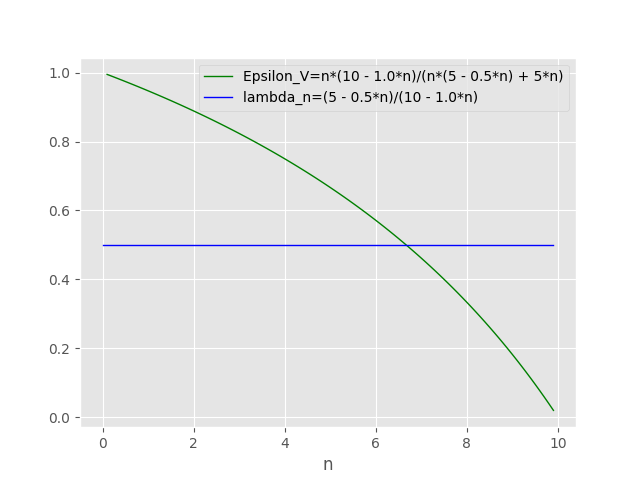
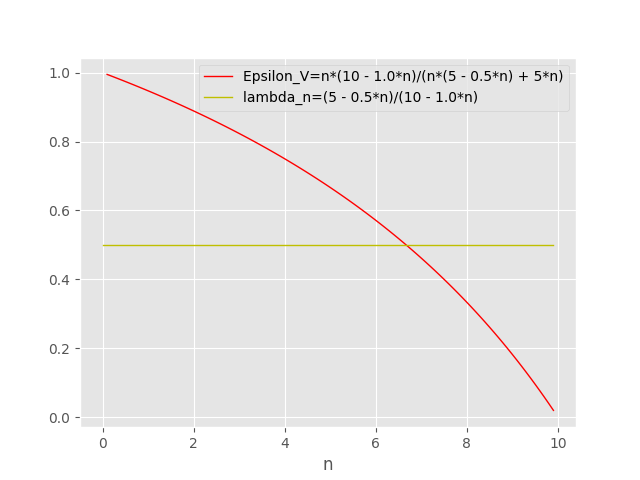
add visulation

diff --git a/two_side.py b/two_side.py
@@ -18,11 +18,11 @@ class BasisParameter(object):
     define several parameter
     '''
 
-    def __init__(self,n, cfg2,path):
+    def __init__(self, cfg2,path):
         '''
         path--save the image
         '''
-        self.n = n
+
         self.cfg = cfg2
         self.path = path
         #print(self.cfg)
@@ -32,50 +32,24 @@ class BasisParameter(object):
         define the inflection point n=10
 
         '''
-
-        if (self.n > self.cfg.INFLECTION_POINT):
-            u = self.cfg.A + self.cfg.B * self.cfg.INFLECTION_POINT
-        else:
-            u = self.cfg.A + self.cfg.B * self.n
-
-
+        n = symbols('n')
+        u = self.cfg.A + self.cfg.B * n
         #self.epsilon = theta *self.f/self.F
         return u
+
     def consumer_theta(self):
 
         theta = symbols("theta")
         F = 1/(1 + exp(-(theta-5)))
         f = diff(F, theta)
         Epsilon_F = theta*f/F
-        print(type(F))
-
-        ## show the plot
-        theta =[]
-        F_value =[]
-        f_value = []
-        Epsilon_F_value = []
-        for i in np.arange(0,10,0.1):
-            theta.append(i)
-            F_value.append(float(F.subs('theta',i)))
-            f_value.append(float(f.subs('theta', i)))
-            Epsilon_F_value.append(float(Epsilon_F.subs('theta',i)))
-
-        plt.plot(theta, F_value, "r-", linewidth=1, label='F='+str(F))  # 画图
-        plt.plot(theta, f_value, "y-", linewidth=1, label='f='+str(f))  # 画图
-        plt.plot(theta, Epsilon_F_value, "g-", linewidth=1, label='Epsilon_F='+str(Epsilon_F))  # 画图
-        plt.legend()
-        plt.xlabel('theta')
-        plt.savefig(self.path+'consumer_theta.png')
-        plt.show()
 
         #calculate the value
         F_onevalue = float(F.subs('theta', self.cfg.THETA))
         f_onevalue = float(f.subs('theta', self.cfg.THETA))
         Epsilon_F_onevalue = self.cfg.THETA*f_onevalue/F_onevalue
         #print(F_onevalue)
-        print('coustomer_theta F=',F)
-        print('coustomer_theta f=', f)
-        print('coustomer_theta Epsilon_F=', Epsilon_F)
+
         return F,f,Epsilon_F, F_onevalue, f_onevalue, Epsilon_F_onevalue
 
     def producer(self):
@@ -83,11 +57,10 @@ class BasisParameter(object):
         self.p = the profit per platform consumer net of variable costs
 
         '''
-        if (self.n >self.cfg.INFLECTION_POINT):
-            p = self.cfg.C - self.cfg.D * self.cfg.INFLECTION_POINT
-        else:
-            p = self.cfg.C - self.cfg.D * self.n
+        n = symbols('n')
+        p = self.cfg.C - self.cfg.D * n
         return p
+
     def producer_phi(self):
 
         phi = symbols("phi")
@@ -95,83 +68,27 @@ class BasisParameter(object):
         h = diff(H, phi)
         Epsilon_H = phi*h/H
 
-        ## show the plot
-        phi =[]
-        H_value =[]
-        h_value = []
-        Epsilon_H_value = []
-        for i in np.arange(0,10,0.1):
-            phi.append(i)
-            H_value.append(float(H.subs('phi',i)))
-            h_value.append(float(h.subs('phi', i)))
-            Epsilon_H_value.append(float(Epsilon_H.subs('phi',i)))
-
-        plt.plot(phi, H_value, "r-", linewidth=1, label='H='+str(H))  # 画图
-        plt.plot(phi, h_value, "y-", linewidth=1, label='h='+str(h))  # 画图
-        plt.plot(phi, Epsilon_H_value, "g-", linewidth=1, label='Epsilon_H='+str(Epsilon_H))  # 画图
-        plt.legend()
-        plt.xlabel('phi')
-        plt.savefig(self.path+'producer_phi.png')
-        plt.show()
-
         #calculate the value
         H_onevalue = float(H.subs('phi', self.cfg.PHI))
         h_onevalue = float(h.subs('phi', self.cfg.PHI))
         Epsilon_H_onevalue = self.cfg.PHI*h_onevalue/H_onevalue
         #print(F_onevalue)
-        print('producer_phi H=', H)
-        print('producer_phi h=', h)
-        print('producer_phi Epsilon_H=', Epsilon_H)
+
         return H,h,Epsilon_H, H_onevalue, h_onevalue, Epsilon_H_onevalue
 
     def profit(self,u,p):
         '''
         self.V = denote the gross surplus created by n products for each platform consumer
         '''
-        V = u + p * self.n
+        n = symbols('n')
+        V = u + p *n
         return V
-    def profit_Epsilon(self):
+    def profit_Epsilon(self,p,V):
 
         n = symbols("n")
-        u = self.cfg.A + self.cfg.B * n
-        p = self.cfg.C - self.cfg.D *n
-        V = u + p*n ## n<=10
         v = diff(V, n)
-        print('p(n)= ', p)
-        print('u(n)= ', u)
-        print('V(n)= ', V)
-        print('v(n)= ', v)
-
         Epsilon_V = n * v / V
         lambda_n = p /v
-        print('profit_Epsilon Epsilon_V=',Epsilon_V)
-        print('profit_Epsilon lambda_n=', lambda_n)
-
-        ## show the plot
-        n = []
-        V_value = []
-        v_value = []
-        Epsilon_V_value = []
-        lambda_n_value =[]
-        for i in np.arange(0, 10, 0.1):
-            n.append(i)
-            V_value.append(float(V.subs('n', i)))
-            v_value.append(float(v.subs('n', i)))
-            Epsilon_V_value.append(float(Epsilon_V.subs('n', i)))
-            lambda_n_value.append(float(lambda_n.subs('n',i)))
-
-        plt.plot(n, V_value, "r-", linewidth=1, label='V ='+str(V))
-        plt.plot(n, v_value, "y-", linewidth=1, label='v='+str(v))
-        plt.legend()
-        plt.xlabel('n')
-        plt.savefig(self.path+'profit_V.png')
-        plt.show()
-        plt.plot(n, Epsilon_V_value, "g-", linewidth=1, label='Epsilon_V='+str(Epsilon_V))
-        plt.plot(n, lambda_n_value, "b-", linewidth=1, label='lambda_n='+str(lambda_n))
-        plt.xlabel('n')
-        plt.legend()
-        plt.savefig(self.path + 'Epsilon_V+lambda_n.png')
-        plt.show()
 
         # calculate the value
         V_onevalue = float(V.subs('n', self.cfg.N))
@@ -179,7 +96,7 @@ class BasisParameter(object):
         Epsilon_V_onevalue = self.cfg.PHI * v_onevalue / V_onevalue
         lambda_n_onevalue = float(lambda_n.subs('n',self.cfg.N))
         # print(F_onevalue)
-        return u,p,V,v, lambda_n,Epsilon_V, V_onevalue, v_onevalue, Epsilon_V_onevalue,lambda_n_onevalue
+        return v, lambda_n,Epsilon_V, V_onevalue, v_onevalue, Epsilon_V_onevalue,lambda_n_onevalue
 
     def platform_profit(self,F):
         n, theta= symbols("n theta")
@@ -188,9 +105,6 @@ class BasisParameter(object):
         plat_profit_dif_n = diff(plat_profit,n)
         plat_profit_dif_theta = diff(plat_profit,theta)
 
-        print('plat_profit = ',plat_profit)
-        print('plat_profit_dif_n =',plat_profit_dif_n)
-        print('plat_profit_dif_theta=',plat_profit_dif_theta)
         theta = []
         n=[]
 
@@ -221,21 +135,7 @@ class BasisParameter(object):
         producer_profit_to_constumer_profit = Epsilon_V*(1+Epsilon_F)*(1-(1-lambda_n)*(1+Epsilon_H))/ \
                                               (1+Epsilon_H)*(1-lambda_n*Epsilon_V*(1+Epsilon_F))
 
-
-        print(type(producer_profit_to_constumer_profit))
-
-        print(producer_profit_to_constumer_profit)
         return(producer_profit_to_constumer_profit)
-
-    def calculate(self,producer_profit_to_constomer_profit):
-
-        n=10
-        phi=5
-        theta=5
-
-
-
-
 
     def platform_profit_show_in3D(self):
         '''
@@ -265,10 +165,6 @@ class BasisParameter(object):
         lambda_max = 1/Eplison_V * (1 + Epsilon_F)
         lambda_min = Epsilon_H / (1 + Epsilon_H)
 
-        lambda_max_value = []
-        lambda_min_value = []
-        print('lambda_min=', lambda_min)
-        print('lambda_max =',lambda_max)
         '''
         theta = []
         phi=[]
@@ -289,14 +185,45 @@ class BasisParameter(object):
         plt.savefig(self.path + 'platform_lambda.png')
         plt.show()
         '''
+        return lambda_min,lambda_max
 
+    def visulation(self,args,x1,x2,x3):
 
+        x1_value = []
+        x2_value = []
+        x3_value = []
+        x_value= []
+        for i in np.arange(0, 10, 0.1):
+            x_value.append(i)
+            x1_value.append(float(x1.subs(args[0], i)))
+            x2_value.append(float(x2.subs(args[0], i)))
+            x3_value.append(float(x3.subs(args[0], i)))
 
-
-    def visualisieren(self,n,p):
-        print('#######')
         plt.figure()
-        plt.plot(n, p)
+        plt.plot(x_value, x1_value, "r-", linewidth=1, label=args[1]+'='+str(x1))  # 画图
+        plt.plot(x_value, x2_value, "y-", linewidth=1, label=args[2]+'='+str(x2))  # 画图
+        plt.plot(x_value, x3_value, "g-", linewidth=1, label=args[3]+'='+str(x3))  # 画图
+        plt.legend()
+        plt.xlabel(args[0])
+        plt.savefig(self.path + args[4])
+        plt.show()
+
+    def visulation2(self,args,x1,x2):
+
+        x1_value = []
+        x2_value = []
+        x_value= []
+        for i in np.arange(0, 10, 0.1):
+            x_value.append(i)
+            x1_value.append(float(x1.subs(args[0], i)))
+            x2_value.append(float(x2.subs(args[0], i)))
+
+        plt.figure()
+        plt.plot(x_value, x1_value, "r-", linewidth=1, label=args[1]+'='+str(x1))  # 画图
+        plt.plot(x_value, x2_value, "y-", linewidth=1, label=args[2]+'='+str(x2))  # 画图
+        plt.legend()
+        plt.xlabel(args[0])
+        plt.savefig(self.path + args[3])
         plt.show()
 
 

diff --git a/temp.py b/temp.py
@@ -15,43 +15,60 @@ matplotlib.use( 'tkagg' )
 cfg = two_side_config()
 path ='/home/chli/Documents/hiwi/Pricing_strategie/result/'
 
+model = BasisParameter(cfg,path)
+
+u = model.consumer()
+p = model.producer()
+V = model.profit(u, p)
+name =['n','u','p','V','u_p_v_n.png']
+model.visulation(name,u,p,V)
 
 
-n = np.arange(0, 16, 1)
-u = np.zeros(16)
-p = np.zeros(16)
-v = np.zeros(16)
-for i in n:
-    model = BasisParameter(i, cfg,path)
-    u[i] = model.consumer()
-    p[i] = model.producer()
-    v[i] = model.profit(u[i], p[i])
-print(n,'++++',u)
-plt.figure()
-plt.plot(n, u, color="r", linestyle="--", linewidth=1.0, label='u')
-plt.plot(n, p, color="g", linestyle="--", linewidth=1.0, label='p')
-plt.plot(n, v, color="b", linestyle="-", linewidth=1.0, label='v')
-plt.legend()
-plt.xlabel('n')
-plt.savefig(path+'u_p_v.png')
-plt.show()
-
-
-
-n = 5
-model = BasisParameter(n,cfg,path)
 F,f, Epsilon_F,_,_,Epsilon_F_onevalue = model.consumer_theta()
+
+name =['theta','F','f','Epsilon_F','consumer_theta.png']
+model.visulation(name,F,f,Epsilon_F)
+
 H,h,Epsilon_H,_,_,Epsilon_H_onevalue = model.producer_phi()
-u, p, V, v,lambda_n,Epsilon_V, V_onevalue,v_onevalue, Epsilon_V_onevalue,lambda_n_onevalue = model.profit_Epsilon()
-plat_profit,_,_ = model.platform_profit(F)
+name =['phi','H','h','Epsilon_H','producer_phi.png']
+model.visulation(name,H,h,Epsilon_H)
+
+v,lambda_n,Epsilon_V, V_onevalue,v_onevalue, Epsilon_V_onevalue,lambda_n_onevalue = model.profit_Epsilon(p,V)
+name = ['n','V','v','profit_V.png']
+model.visulation2(name,V,v)
+name =['n','Epsilon_V','lambda_n','Epsilon_V+lambda_n.png']
+model.visulation2(name,Epsilon_V,lambda_n)
+
+plat_profit,plat_profit_dif_n,plat_profit_dif_theta = model.platform_profit(F)
 model.platform_profit_show_in3D()
-model.platform_lambda(Epsilon_H,Epsilon_F,Epsilon_V)
-model.producer_profit_to_constumer_profit(Epsilon_H,Epsilon_F,lambda_n,Epsilon_V)
+
+lambda_min,lambda_max=model.platform_lambda(Epsilon_H,Epsilon_F,Epsilon_V)
+producer_profit_to_constumer_profit= model.producer_profit_to_constumer_profit(Epsilon_H,Epsilon_F,lambda_n,Epsilon_V)
 
 model.producer_profit_to_constumer_profit(Epsilon_H_onevalue,Epsilon_F_onevalue,lambda_n_onevalue,Epsilon_V_onevalue)
 
-#print(F)
 
+print('u=',u)
+print('p=',p)
+print('V=',V)
+print('v=',v)
+print('coustomer_theta F=', F)
+print('coustomer_theta f=', f)
+print('coustomer_theta Epsilon_F=', Epsilon_F)
+
+print('producer_phi H=', H)
+print('producer_phi h=', h)
+print('producer_phi Epsilon_H=', Epsilon_H)
+
+print('profit_Epsilon Epsilon_V=', Epsilon_V)
+print('profit_Epsilon lambda_n=', lambda_n)
+
+print('plat_profit = ', plat_profit)
+print('plat_profit_dif_n =', plat_profit_dif_n)
+print('plat_profit_dif_theta=', plat_profit_dif_theta)
+print('producer_profit_to_constumer_profit',producer_profit_to_constumer_profit)
+print('lambda_min=', lambda_min)
+print('lambda_max =', lambda_max)
 
 ## plot producer theta
 
